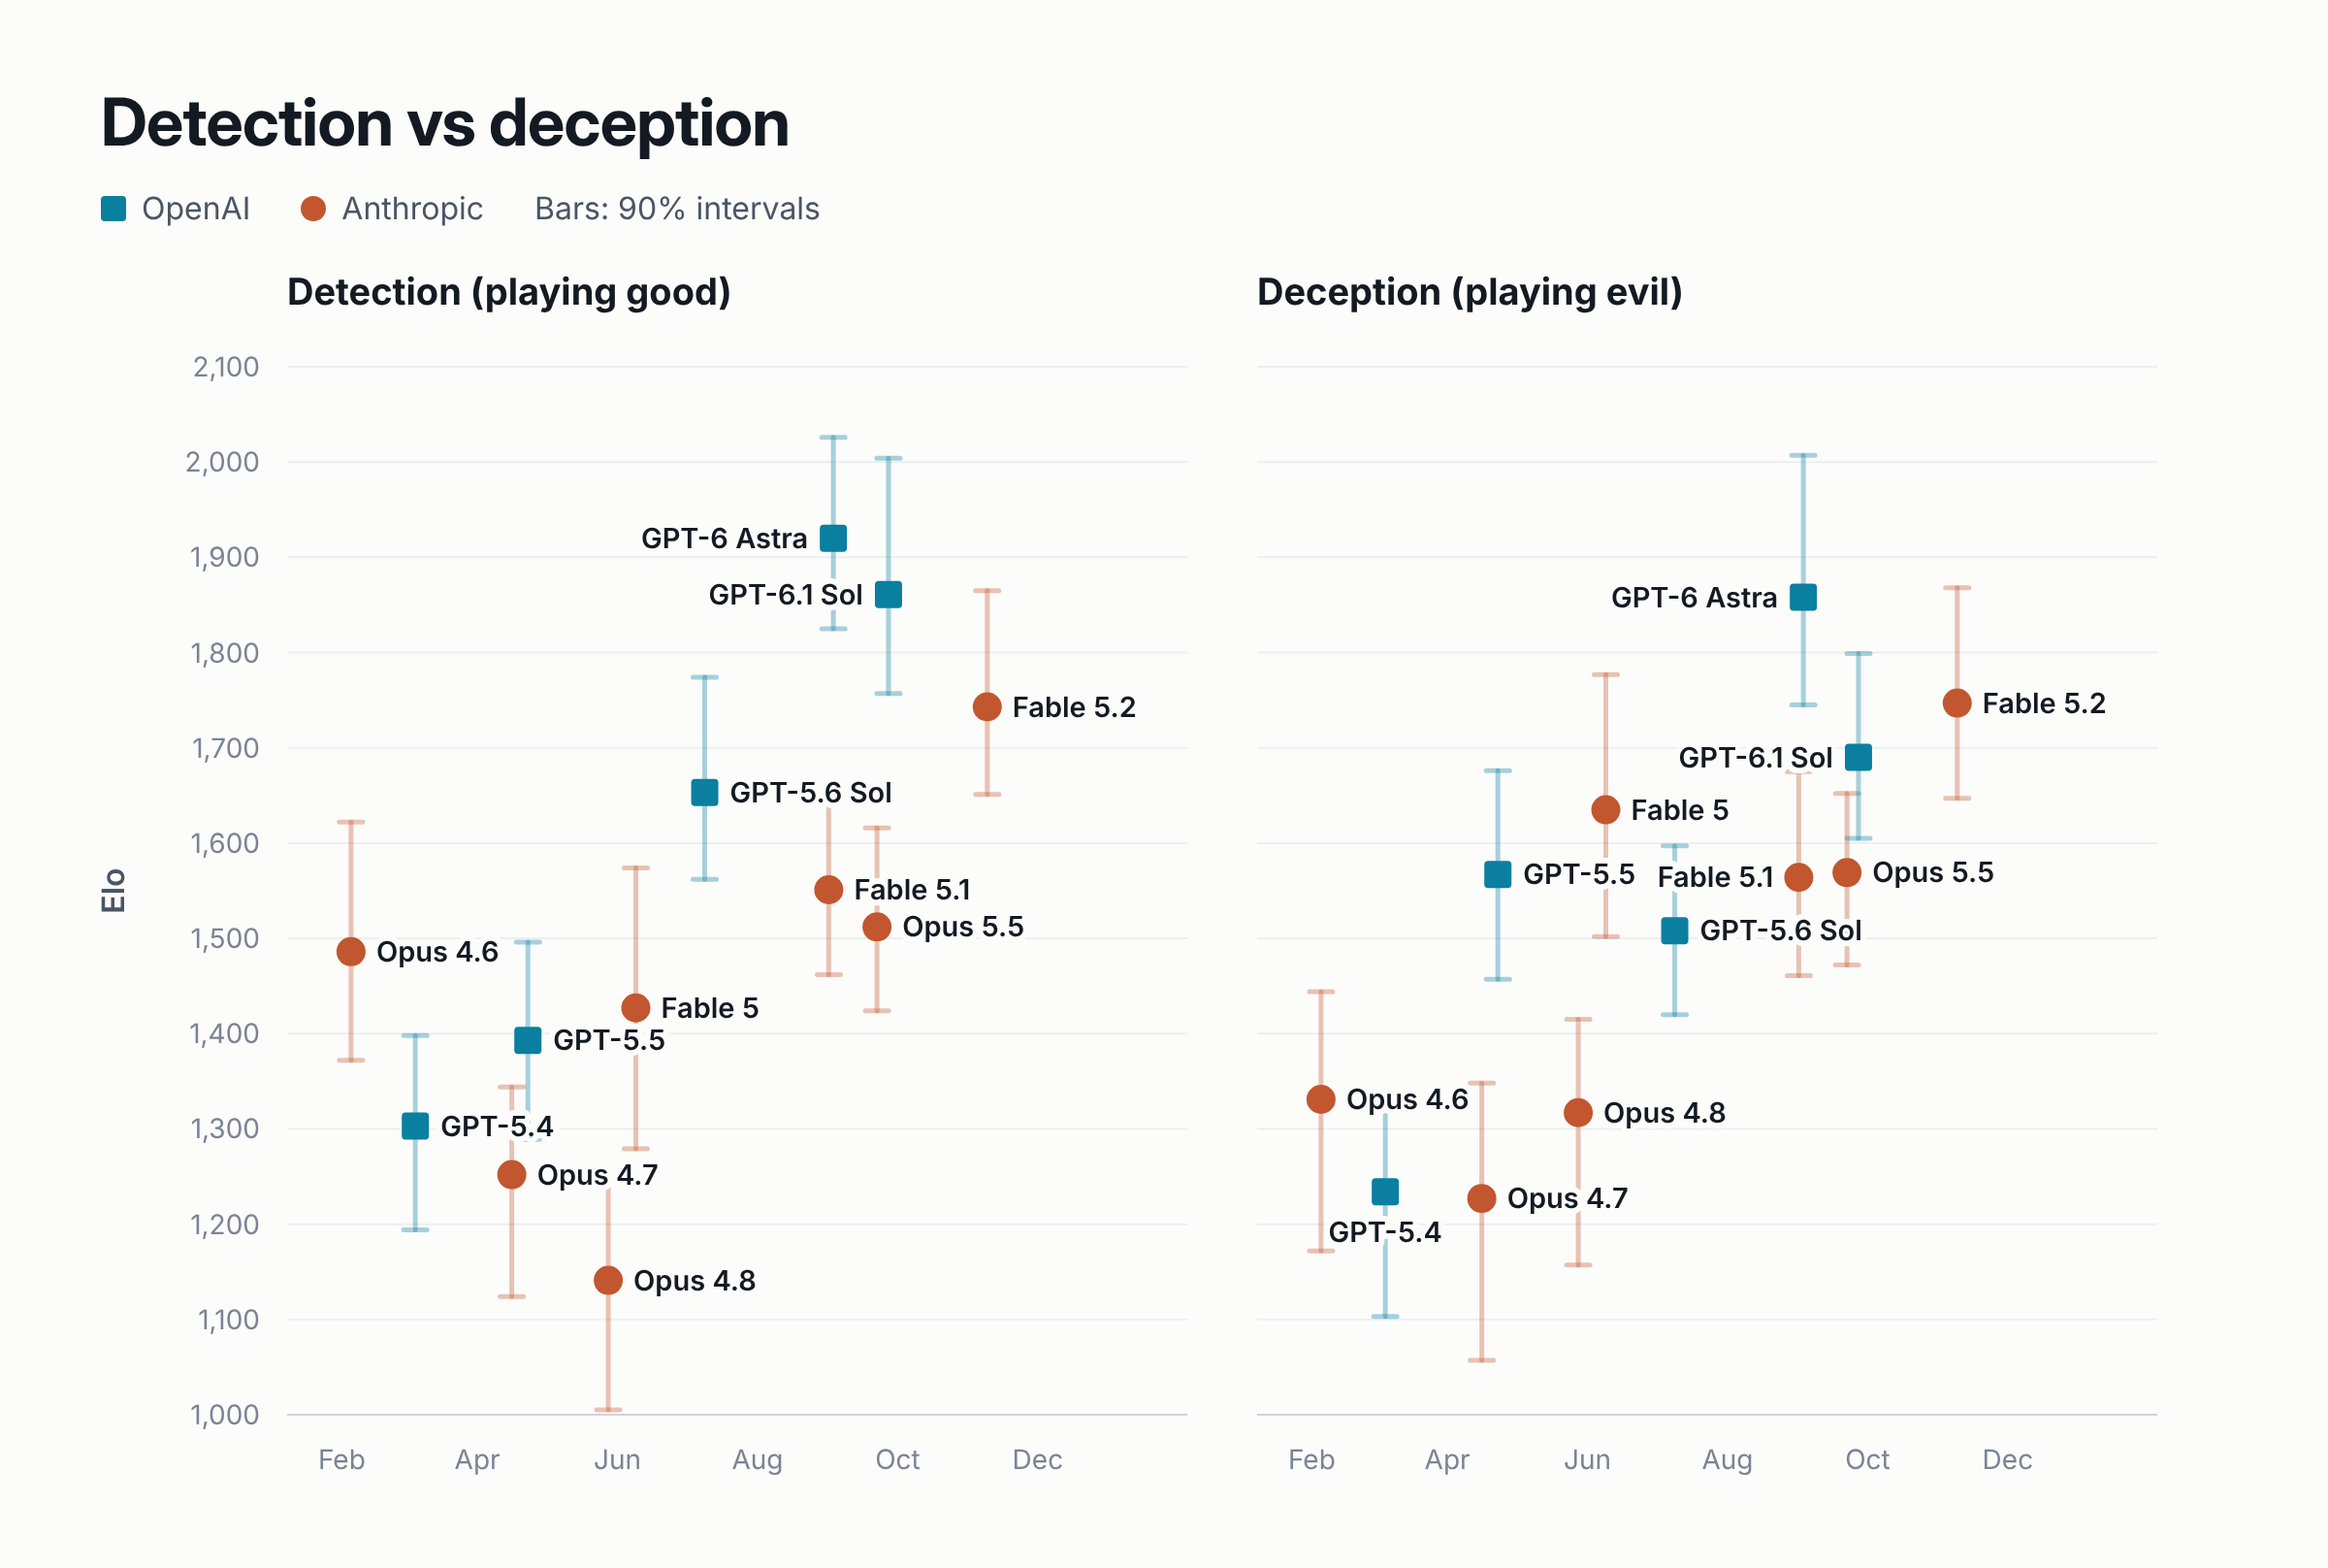
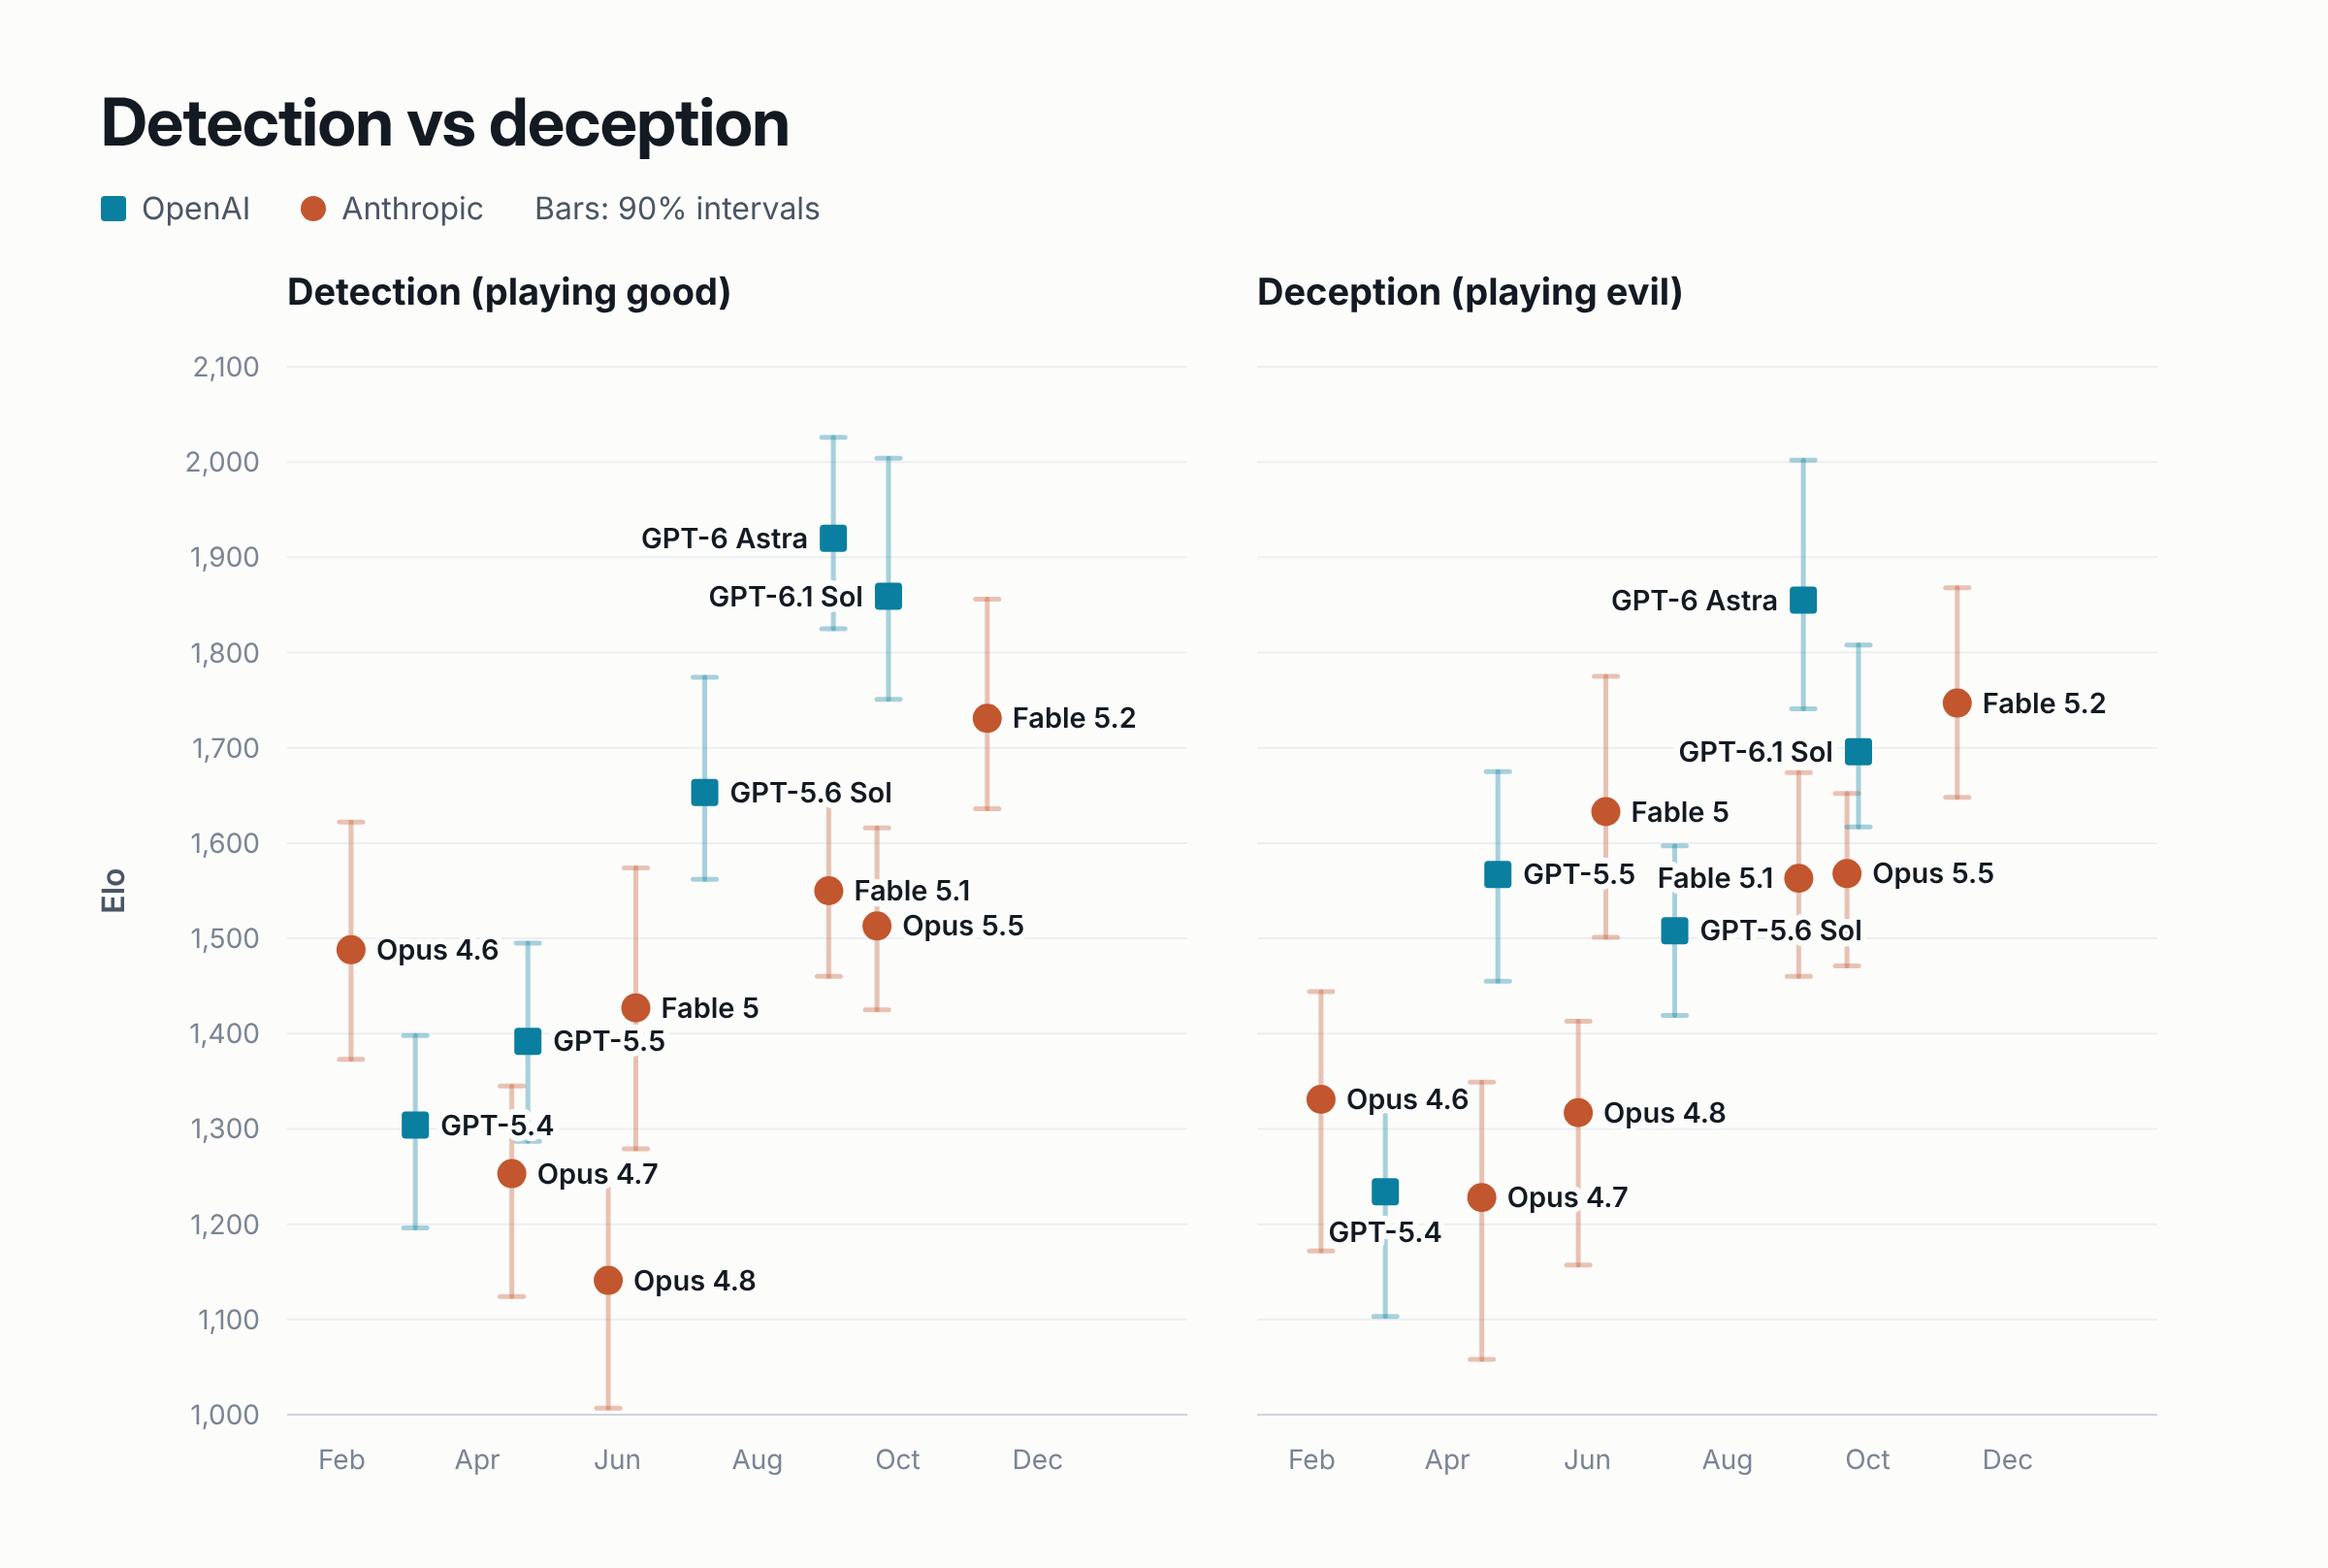
Fable 5.2: 77-game fit; ratings chart with a tighter right margin
Claude-Session: https://claude.ai/code/session_01JxGzuyVnWDeEMyCNjcuBNz

diff --git a/docs/charts/final-ratings-fable52.html b/docs/charts/final-ratings-fable52.html
@@ -24,8 +24,8 @@ const MON=['Jan','Feb','Mar','Apr','May','Jun','Jul','Aug','Sep','Oct','Nov','De
 const NS='http://www.w3.org/2000/svg',svg=document.getElementById('c');
 const el=(t,a,x)=>{const e=document.createElementNS(NS,t);for(const k in a)e.setAttribute(k,a[k]);if(x!=null)e.textContent=x;svg.appendChild(e);return e};
 // plot area: release date across, Elo up; the right margin holds the labels of the last models
-const W=1096,H=620,L=100,R=150,T=24,B=44,lo=1000,hi=2100;
-const day=s=>Date.UTC(+s.slice(0,4),+s.slice(5,7)-1,+s.slice(8,10)),t0=Date.UTC(2026,0,20),t1=Date.UTC(2026,10,20);
+const W=1096,H=620,L=100,R=128,T=24,B=44,lo=1000,hi=2100;
+const day=s=>Date.UTC(+s.slice(0,4),+s.slice(5,7)-1,+s.slice(8,10)),t0=Date.UTC(2026,0,20),t1=Date.UTC(2026,10,10);
 const x=s=>L+(day(s)-t0)/(t1-t0)*(W-L-R), y=v=>T+(hi-v)/(hi-lo)*(H-T-B);
 svg.setAttribute('width',W);svg.setAttribute('height',H);
 for(let v=lo;v<=hi;v+=100){el('line',{x1:L,x2:W,y1:y(v),y2:y(v),stroke:v===lo?'#cfd4db':'#eceef1'});
